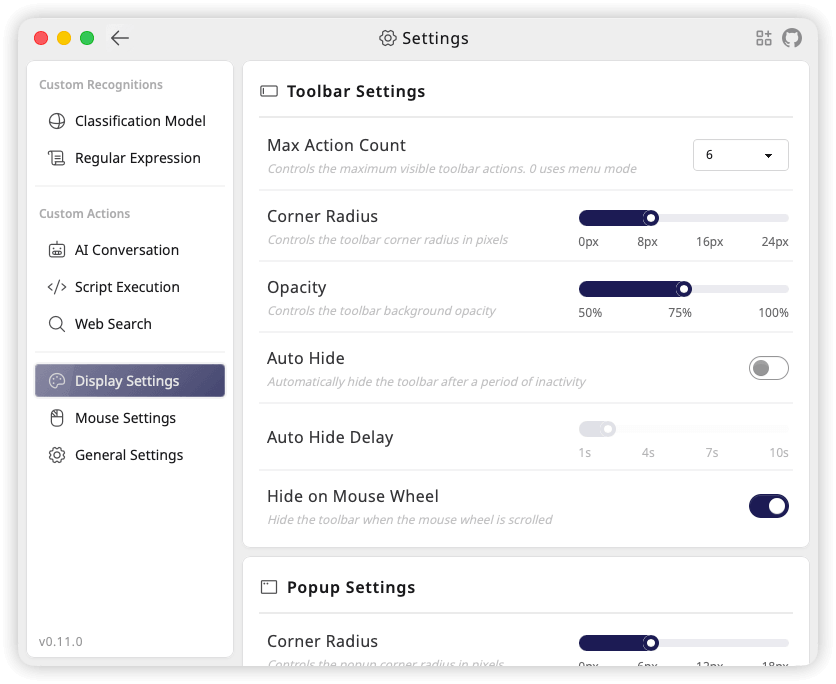
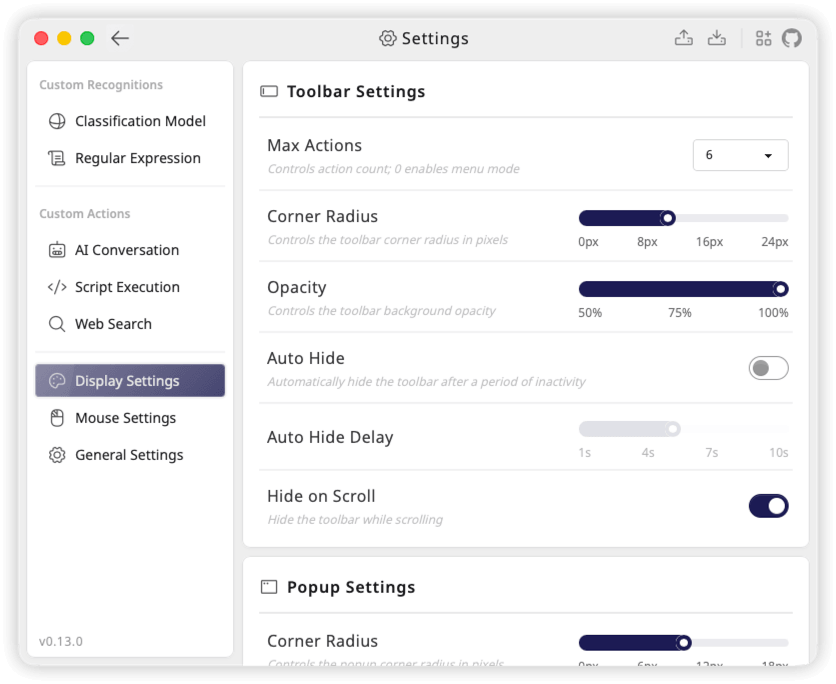
docs: simplify issue contribution guide

diff --git a/site/guide/contribution.md b/site/guide/contribution.md
@@ -14,42 +14,7 @@ Thank you for contributing to TextGO. This guide explains how to get involved.
 
 ## Submit an Issue
 
-Search existing issues before submitting a new one.
-
-### 1. Report Bugs
-
-Use this template to report a bug on [GitHub Issues](https://github.com/C5H12O5/TextGO/issues):
-
-```markdown
-**Describe the bug**
-Briefly describe the problem.
-
-**To Reproduce**
-List the steps to reproduce it.
-
-**Environment**
-
-- OS: [e.g., macOS 26]
-- Version: [e.g., v1.0.0]
-
-**Screenshots (optional)**
-Attach screenshots or recordings.
-```
-
-### 2. Feature Suggestions
-
-Use this template to suggest a feature on [GitHub Issues](https://github.com/C5H12O5/TextGO/issues):
-
-```markdown
-**What feature would you like to add?**
-Clearly describe the feature.
-
-**Why do you need this feature?**
-Explain why it would be useful.
-
-**Additional context (optional)**
-Provide any other relevant information.
-```
+Search [existing issues](https://github.com/C5H12O5/TextGO/issues) before submitting to avoid duplicates. When creating an issue, choose the appropriate [template](https://github.com/C5H12O5/TextGO/issues/new/choose) and provide the requested information.
 
 ## Submit a Pull Request
 

diff --git a/site/zh-CN/guide/contribution.md b/site/zh-CN/guide/contribution.md
@@ -14,42 +14,7 @@
 
 ## 提交 Issue
 
-提交前请先搜索现有 Issues，避免重复。
-
-### 1. 报告 Bug
-
-使用以下模板在 [GitHub Issues](https://github.com/C5H12O5/TextGO/issues) 提交 Bug 报告：
-
-```markdown
-**问题描述**
-简要描述问题
-
-**复现步骤**
-提供复现步骤
-
-**系统信息**
-
-- 系统：[例如 macOS 26]
-- 版本：[例如 v1.0.0]
-
-**截屏（可选）**
-附上截图或录屏
-```
-
-### 2. 功能建议
-
-使用以下模板在 [GitHub Issues](https://github.com/C5H12O5/TextGO/issues) 提交功能建议：
-
-```markdown
-**希望添加什么功能？**
-清晰描述你想要的功能
-
-**为什么需要这个功能？**
-说明该功能的必要性
-
-**补充说明（可选）**
-提供任何额外信息
-```
+提交前请先搜索[现有 Issue](https://github.com/C5H12O5/TextGO/issues)，避免重复。创建 Issue 时请选择合适的[模板](https://github.com/C5H12O5/TextGO/issues/new/choose)，并按提示填写信息。
 
 ## 提交 Pull Request
 
